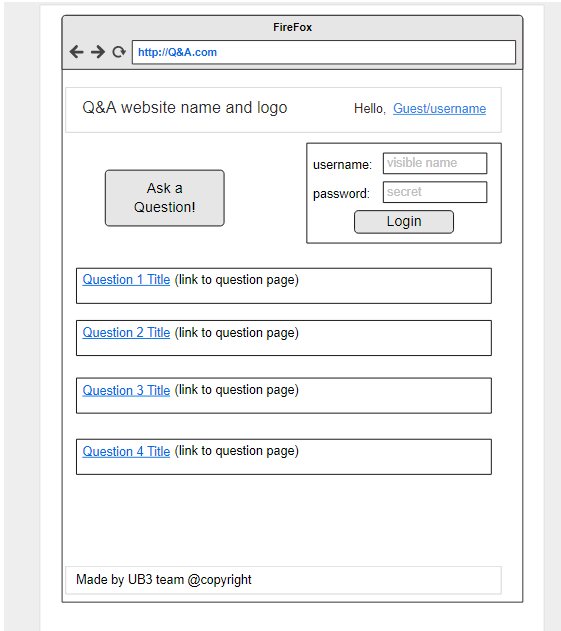
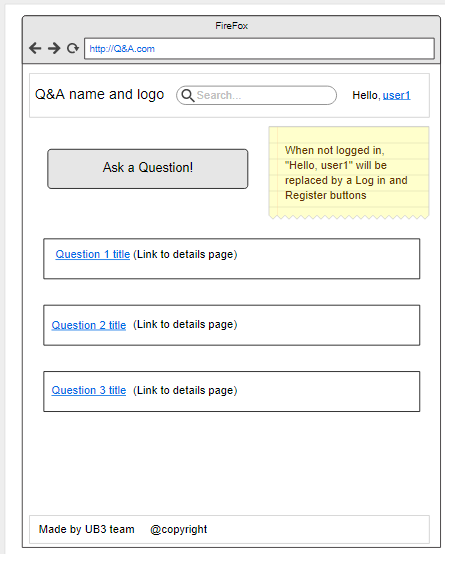
Changed mock ups to reflect customer's comments during the last meeting

Changed region(s): [[0.0308, 0.0, 0.9846, 0.968]]

diff --git a/README.md b/README.md
@@ -19,6 +19,8 @@ The extra feature that we decided to add is to have a user page. The user page w
 user to find all the relevant information for him. On that user page, they will find all the questions they previously 
 asked with all its information attached to it and all the answers they gave to other user's questions.
 
+A search feature will also be available in the header to search thrpugh all the questions that were asked on the website.
+
 ## Team members
 
 * Tongwei Zhang
